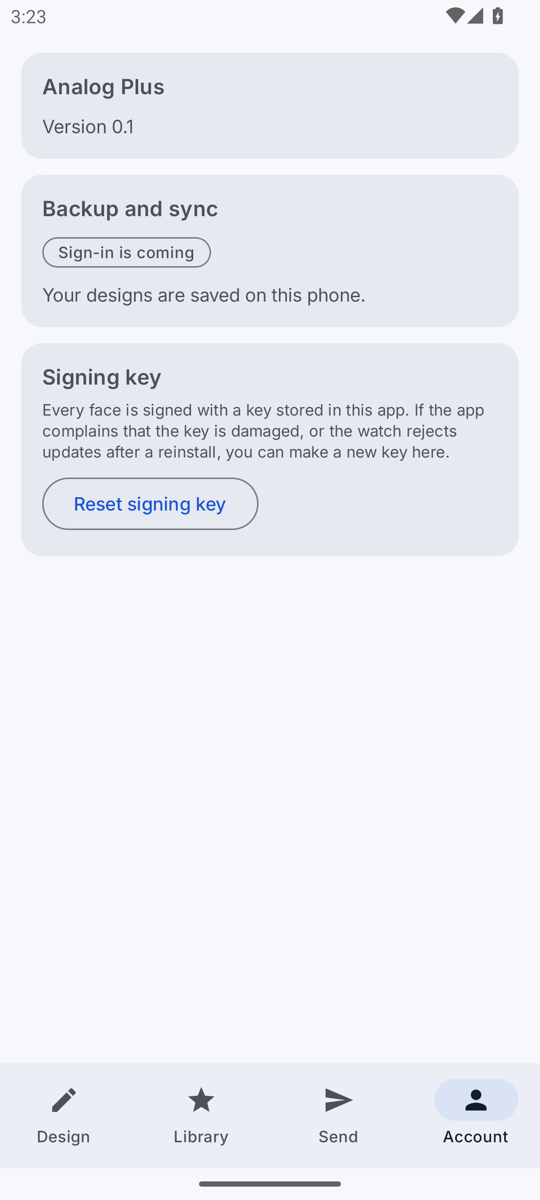
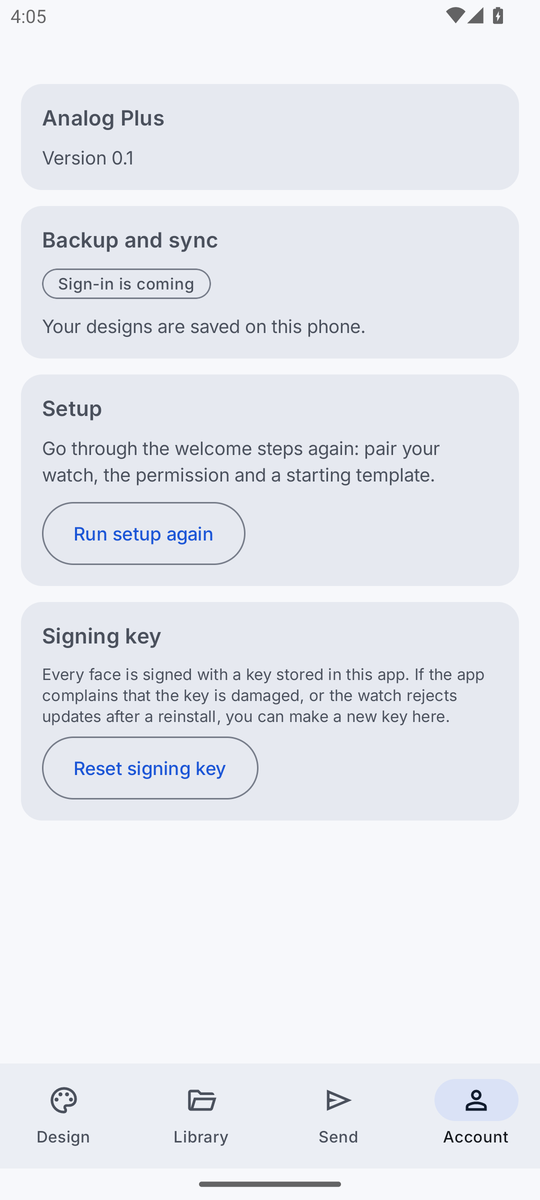
docs: onboarding in the POC readme, CLAUDE.md and spec (paged flow, no swipe), Account and real-app screenshots, real-device checklist marked not run

diff --git a/docs/poc/README.md b/docs/poc/README.md
@@ -39,8 +39,8 @@ inside it) when you switch away, rotate the phone or the system restarts the app
   design under a name is in My designs).
 - **Send** shows the watch status (paired, Analog Plus installed) and the progress of a send. Pressing **Send to watch**
   in Design starts the send and opens this destination. A send keeps running if you switch destination.
-- **Account** shows the app version, the (not yet available) sign-in, and **Reset signing key**, which used to be in the
-  Share tab.
+- **Account** shows the app version, the (not yet available) sign-in, **Run setup again** (see First run below) and
+  **Reset signing key**, which used to be in the Share tab.
 
 Design sections. Colours are typed as `#AARRGGBB` (for example `#FF1E6BFF`); a wrong value shows a message and disables
 **Send to watch**. The preview updates as you type. Complications: choose 4 or 6 slots, tap a slot to edit it, drag it to
@@ -52,7 +52,40 @@ link, a scanned QR code, a template or a saved design asks before it replaces th
 into Share and loaded with **Load design** replaces it at once. A tapped link shows its question over whichever destination is open.
 
 Screenshots of every destination (light and dark, font scale 1.0 and 2.0) are in `docs/poc/screens/`
-(`<destination>-<theme>-<scale>.png`).
+(`<destination>-<theme>-<scale>.png`). Onboarding is in `onboarding-<page>-<theme>-<portrait|landscape>[-2x].png` (rendered
+by an instrumented test in a 360x800 / 800x360 window; those show five steps because the test turns the fifth page on, and
+the pair page shows a ready watch) plus real-app captures on the emulator: `onboarding-pair-nowatch-*` (no watch, "Could not
+check") and `onboarding-welcome-real-dark-landscape.png`.
+
+**First run (onboarding).** A new install shows a short paged flow before the app: welcome, connect your watch, the
+one-time permission explained and a starting template. A fifth page, optional sign-in, appears only once accounts ship
+(until then the flow is four pages: "Step 1 of 4"). There is no swiping: move with the primary button (Get started /
+Continue), **Back** or **Skip**, and the system Back button goes to the previous page (on the first page it leaves the
+app). Skip is on every page and never touches the design. Only the visible page is composed, so the pairing check does
+not start until you reach the connect page. Closing the app mid-way (or process death) resumes on the same page; rotating
+the phone keeps the page, and in a short wide window (phone held sideways) the animation sits beside the text and
+Back, progress, Skip and the primary button share one row; at large font sizes the page scrolls and the buttons stay.
+
+The connect page checks the Wear Data Layer when it opens, every time you come back to the app, and on **Check again**
+(the same checker as Send; it gives up after 5 seconds). "OK: Found" and "OK: Installed" mean a face can be sent;
+anything else names the exact next step ("Could not check" means the check failed, "Not found" that no watch is paired),
+and you can always continue without a watch. Finishing (or skipping) lands on Design with the chosen template loaded.
+If the watch was found, a one-time tip on Design offers **Open Send** or **Got it**; it also ends when you open Send by
+any route, and no tip is shown when the watch was not found. An install that already has designs, a saved design, a version
+number or a sent key (the POC) is never shown onboarding: the first launch records it as *Skipped*, and a new install is
+decided the same way before the app autosaves the default design. To see it again: Account, **Run setup again** (works
+after Completed and after Skipped). Choosing a template on the template page asks before replacing edits you made.
+
+The animations are Lottie files drawn from the watch-face geometry, recoloured with the app's brand colours in light and
+dark. They ignore the system animator scale inside Lottie; the page decides: with animations turned off in the system
+(animator scale 0, "reduced motion") each page shows its last frame as a still image and pages change without sliding.
+They also pause when the page is not visible and when the app is in the background. To regenerate them:
+`python3 tools/gen_onboarding_lottie.py` rewrites `phone/src/main/res/raw/onboarding_{welcome,searching,found,permission}.json`
+(`--out DIR` writes elsewhere). `tests/test_onboarding_lottie.py` and a JVM test fail when the committed files and the
+generator disagree, so edit the generator, not the JSON. To use licensed animations instead, drop files under the same four
+names into `res/raw` (keep them under 100 KB; the colour groups named accent / ink / track / onaccent are what the app
+recolours, so licensed files get their own colours unless they use those group names, and the generator test then no
+longer applies and should be deleted with them).
 
 **Always-on mode.** The background is hidden (black) and the dial is dimmed. Dark hands, ticks and numerals switch to
 light grey there, and the editor shows a hint when that happens; dark slot text stays dim.
@@ -95,6 +128,14 @@ battery, the second the step count as text, the others start empty; pick provide
 
 ## Checklist for the real-device test
 
+**Group 0 below is NOT RUN yet** (the owner skipped it: no phone and watch were attached when onboarding was built). Do it,
+then write what happened under "Known limits".
+
+0. (Not run) Phone: Account, **Run setup again**. Connect page: both rows "OK" within a few seconds; the animation switches to
+   the tick; note how long the check took and any message. Turn Bluetooth off on the phone, come back to the app: the rows
+   change (Found becomes Not found or Could not check); turn it on, return to the app: both OK again. Permission page: read
+   it, then finish; the tip offers **Open Send**. Do not uninstall the watch app to test "installed but missing" (it would use
+   up the one-time activation).
 1. Pair phone and watch, install both apps (above), allow the watch permissions.
 2. Phone: open Analog Plus, leave the default design, press **Send to watch**. Wait for the success message with the version.
 3. Watch: open Analog Plus, check "Face: version N", press **Activate face**. The face appears and looks like the Classic face.
@@ -127,6 +168,14 @@ setup in `docs/poc/pack-native.md`. Screenshots go to `docs/screenshots/poc/`. T
 apply, the centre disc is not the design's accent colour, the version does not rise, or more than one face is installed.
 `POC_SETTLE_SECONDS` (default 25) is the wait before each screenshot; complications need about 20 s after the first
 activation.
+
+Onboarding tests: `python3 -m unittest tests.test_onboarding_lottie` (assets), JVM `./gradlew :phone:testDebugUnitTest`
+(state, controller, storage, asset files), and on the phone emulator the `Onboarding*`, `PairPageTest`, `TemplatePageTest`
+and `StaticPagesTest` classes, for example
+`scripts/with_phone_emulator_lock.sh ./gradlew :phone:connectedDebugAndroidTest -Pandroid.testInstrumentationRunnerArguments.class=com.seyedjafari.analogplus.phone.OnboardingFlowTest,com.seyedjafari.analogplus.phone.OnboardingGateTest`
+(`connectedDebugAndroidTest` rejects `--tests`; the class argument takes a comma-separated list; an unset animator scale is the
+normal state, and `OnboardingReducedMotionTest` sets it to 0 itself). The tests render through `PinnedWindow`, so they do not
+depend on the emulator's orientation, and the ones that touch the real store restore it afterwards.
 
 Device tests by hand: `./gradlew testDebugUnitTest`, then
 `scripts/with_phone_emulator_lock.sh ./gradlew :facegen:connectedDebugAndroidTest :packjni:connectedDebugAndroidTest :phone:connectedDebugAndroidTest`

diff --git a/docs/superpowers/specs/2026-10-09-onboarding-design.md b/docs/superpowers/specs/2026-10-09-onboarding-design.md
@@ -15,7 +15,11 @@ onboarding never blocks an existing user and never shows twice unless asked.
 
 ## Flow
 
-Five pages in a pager with a progress indicator, Skip on every page, Back works.
+Five pages in a paged flow with a progress indicator ("Step N of M"), Skip on every page, Back works. There is no swipe:
+the user moves with Back, Skip and the primary button only (and the system Back button), and pages change with a
+shared-axis slide (a plain change when animations are off). Only the visible page is composed, so the pairing check
+starts when the connect page is reached and a neighbouring page never plays its animation. Until accounts ship the flow
+has four pages (the fifth, backup, is hidden).
 
 1. **Welcome.** Lottie loop: a watch face morphing between designs (colours, ring layout, complication slots).
    Headline and one line. Primary: Get started.
@@ -35,7 +39,11 @@ Five pages in a pager with a progress indicator, Skip on every page, Back works.
 5. **Backup and sync (optional).** Shown only when accounts ship. "Sign in with Google" or "Not now"; after sign-in,
    set the recovery passphrase (spec 3). Skippable; always reachable later from Account.
 
-Finish goes to Design with the chosen template loaded. If the watch was found, a one-time tip points to Send.
+Finish goes to Design with the chosen template loaded. If the watch was found, a one-time tip points to Send: it is
+shown once after Finish, with **Open Send** and **Got it**, and ends when either is used or when the Send destination is
+opened by any other route. In a short wide window (phone landscape) the animation sits beside the text and Back,
+progress, Skip and the primary button share one row; every page scrolls instead of clipping, also at font scale 2.
+Account has a **Run setup again** card that restarts the flow from the first page after Completed or Skipped.
 
 ## State
 
@@ -60,11 +68,13 @@ Finish goes to Design with the chosen template loaded. If the watch was found, a
 - Brand colours are applied through Lottie dynamic properties so light and dark both work.
 - Each animation file is capped (target under 100 KB), checked by a test.
 - Reduced motion: when animations are disabled system-wide, show the last frame as a static image (progress 1f), no loop.
+  The page decides this (it follows the shell's animation scale); Lottie's own read of the system animator scale is
+  switched off so the two cannot disagree.
 - The welcome animation pauses when the page is not visible and when the app is in the background.
 
 ## Code structure
 
-`ui/onboarding/`: `OnboardingScreen` (pager), one composable per page. `WatchStatusChecker`, `WatchStatus` and
+`ui/onboarding/`: `OnboardingScreen` (the paged flow: an `AnimatedContent` over the current page, no pager), one composable per page. `WatchStatusChecker`, `WatchStatus` and
 `CheckStatus` already exist in `ui/send` (app shell plan, Task 7; the real one wraps the Wear `NodeClient` and
 `CapabilityClient`, a fake drives tests and previews) and are reused, not duplicated. `OnboardingState`,
 `OnboardingController` and the `Store` methods are logic and live in the root package. Navigation is state-based
@@ -79,9 +89,10 @@ Finish goes to Design with the chosen template loaded. If the watch was found, a
 - Instrumented: full pass through all pages, Skip on each page, Back, rotation and process-death resume, template
   choice sets the design, "no watch" path, reduced-motion path shows static frames.
 - Asset test: all four raw files parse as Lottie compositions and stay under the size cap.
-- Real devices: the pairing page is verified on the owner's paired phone and watch (the Data Layer has never run on
+- Real devices: the pairing page is to be verified on the owner's paired phone and watch (the Data Layer has never run on
   paired devices, see `CLAUDE.md`; emulators cannot be paired). This is the first real exercise of that path, so
-  allow time for findings.
+  allow time for findings. **Not run yet** (skipped by the owner when onboarding was built: no devices attached); the
+  checklist is group 0 in `docs/poc/README.md`.
 
 ## Out of scope
 

diff --git a/CLAUDE.md b/CLAUDE.md
@@ -12,6 +12,7 @@ face (Google `pack`) and pushes it with Watch Face Push (Wear OS 6 only).
 3. `docs/superpowers/plans/2026-10-08-builder-poc.md` — the POC plan (10 tasks; **implemented and merged to `main` on 2026-10-08, not pushed**; how to run and test it: `docs/poc/README.md`; test map: `docs/superpowers/scenarios/2026-10-08-builder-poc-user-scenarios.md`)
 4. `docs/research/Customizable Wear OS watch face market.md` — market verdict (small, time-boxed bet)
 5. `docs/superpowers/specs/2026-10-08-configurable-watchface-design.md` — ON HOLD fallback (code-free face with fixed options)
+6. `docs/superpowers/specs/2026-10-09-onboarding-design.md` and `docs/superpowers/plans/2026-10-09-onboarding.md` — first-run onboarding (4 pages today, a 5th, backup, once accounts ship; paged flow with no swipe; Lottie animations generated by `tools/gen_onboarding_lottie.py`; gate in `AppShell`); to see it again: Account > Run setup again. Not yet run on a real paired phone and watch.
 
 ## Rules that cost us time (details in the handoff)
 
@@ -35,4 +36,5 @@ Keep chat answers **very short**; do the work and ask decisions in batches. Glob
 `docs/handoff` · `docs/research` · `docs/poc/spike` (throwaway spike sources, not built) · `docs/poc/screens` (phone app screenshots)
 
 Phone app UI (`phone/.../ui/`): `nav/` (`AppNav`, four destinations: Design, Library, Send, Account) · `design/` · `library/` ·
-`send/` · `account/` · `components/` · `theme/`. The old eight-tab editor is gone.
+`send/` · `account/` · `onboarding/` · `components/` · `theme/`. The old eight-tab editor is gone.
+Generators in `tools/` now also include `gen_onboarding_lottie.py` (writes `phone/src/main/res/raw/onboarding_*.json`; test `tests/test_onboarding_lottie.py`).
